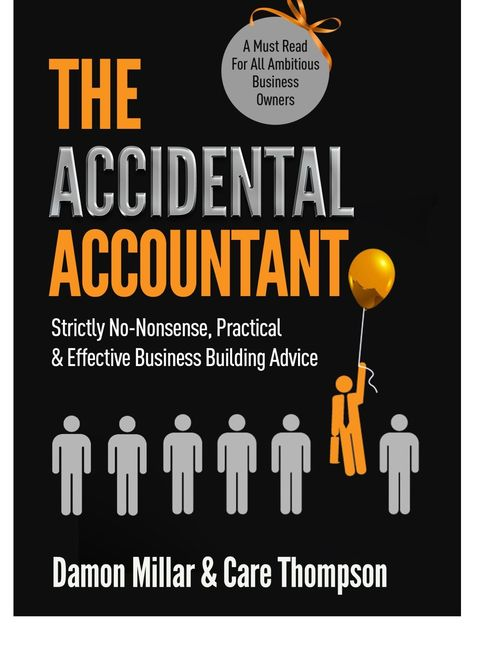
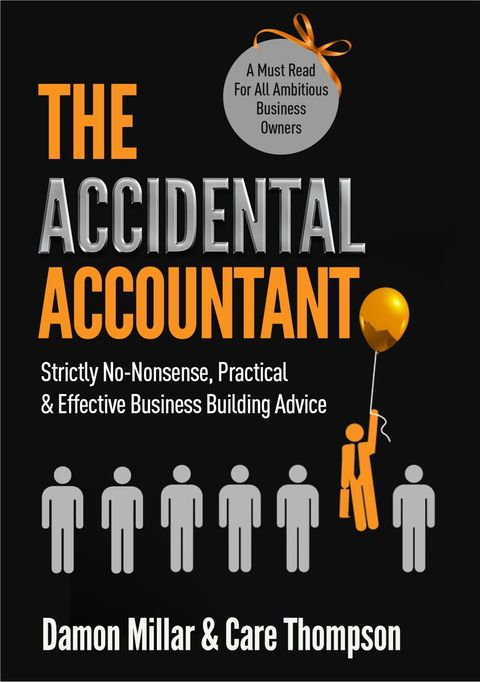
Books: retrim carousel covers flush to their edges, add keyline
Cover positions detected per row from the montage's white gutters,
with the fitted grid applied to white-background covers a naive
threshold would shave. Hairline ring keeps white covers reading as
objects on the surface band.

Claude-Session: https://claude.ai/code/session_01VDJ3rS7Kyzw8mwsZ7D6f7f

diff --git a/src/components/BookCarousel.jsx b/src/components/BookCarousel.jsx
@@ -20,7 +20,7 @@ export default function BookCarousel({ covers, speed = 55 }) {
           src={withBase(c.src)}
           alt={c.alt}
           loading="lazy"
-          className="w-36 shrink-0 shadow-[0_18px_36px_rgba(26,26,24,0.22)] transition-transform duration-300 hover:-translate-y-2 sm:w-44"
+          className="w-36 shrink-0 shadow-[0_18px_36px_rgba(26,26,24,0.22)] ring-1 ring-line/70 transition-transform duration-300 hover:-translate-y-2 sm:w-44"
         />
       ))}
     </div>
